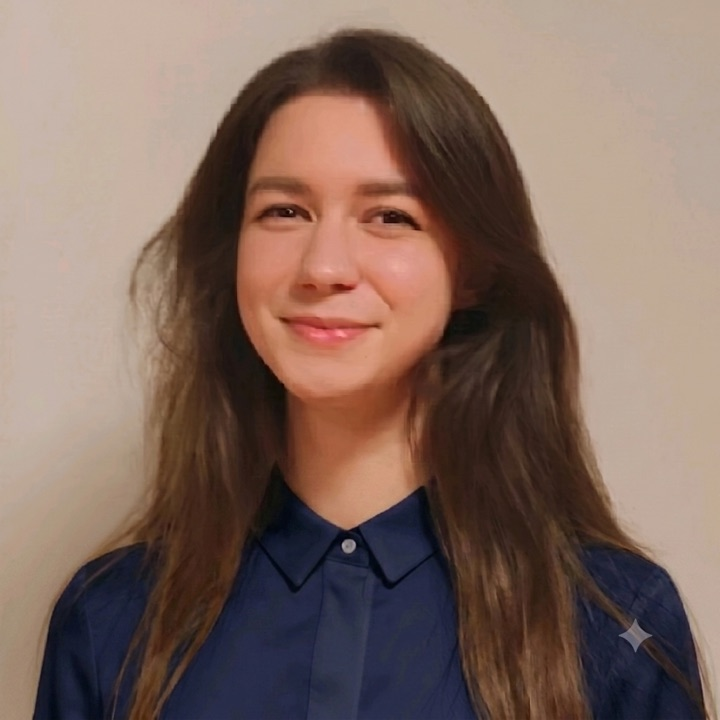
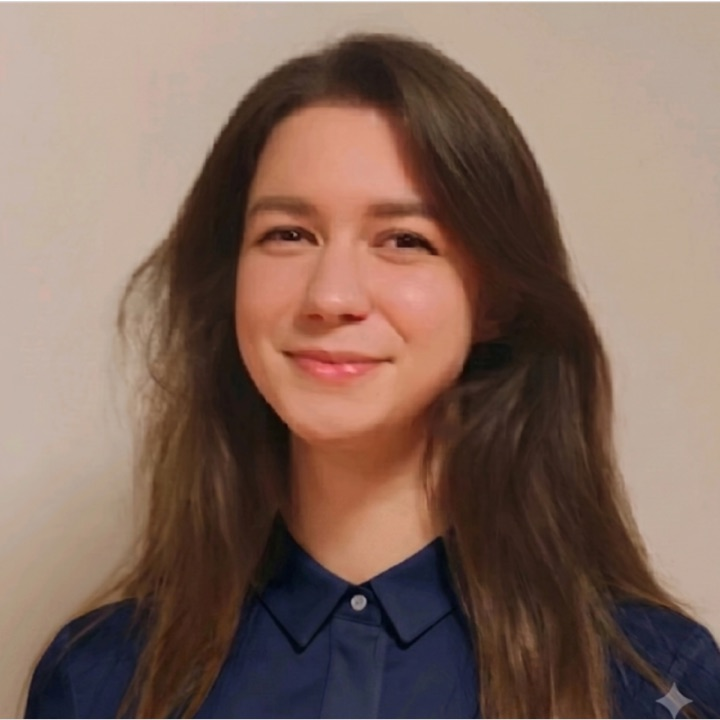
Homepage: drop 'Request the Program' link; use the correctly-cropped photo
Card 01 keeps only the 'See the program' button. Replace the About
photo with the pre-cropped version and remove the CSS zoom, so it just
fits the circle at its own framing.

diff --git a/docs/index.html b/docs/index.html
@@ -193,7 +193,7 @@
   .about-mark{display:flex;justify-content:center;align-items:center}
   .photo-frame{position:relative;width:min(310px,78%);aspect-ratio:1}
   .photo-clip{position:relative;z-index:2;width:100%;height:100%;border-radius:50%;overflow:hidden;border:2px solid rgba(247,191,0,.6)}
-  .photo-frame img{width:100%;height:100%;object-fit:cover;object-position:center top;transform:scale(1.26);transform-origin:50% 0%;display:block}
+  .photo-frame img{width:100%;height:100%;object-fit:cover;object-position:center;display:block}
   .photo-frame::before{content:"";position:absolute;inset:-34px;border-radius:50%;border:1px solid rgba(247,191,0,.5);z-index:1}
   .photo-frame .orbit-dot{position:absolute;z-index:3;top:-14px;right:6px;width:16px;height:16px;border-radius:50%;background:var(--gold)}
   .photo-frame .orbit-ring{position:absolute;z-index:1;left:-58px;bottom:-20px;width:56px;height:56px;border-radius:50%;border:1px solid rgba(247,191,0,.5)}
@@ -302,7 +302,6 @@
         </ul>
         <div class="foot">
           <a href="raise-campaign-offer" class="btn sm">See the program <span class="arr">&rarr;</span></a>
-          <a href="mailto:kateryna@momentummill.com?subject=Fundraising%20Sprint%20program" class="link-arrow">Request the Program <span class="arr">&rarr;</span></a>
         </div>
       </article>
 
